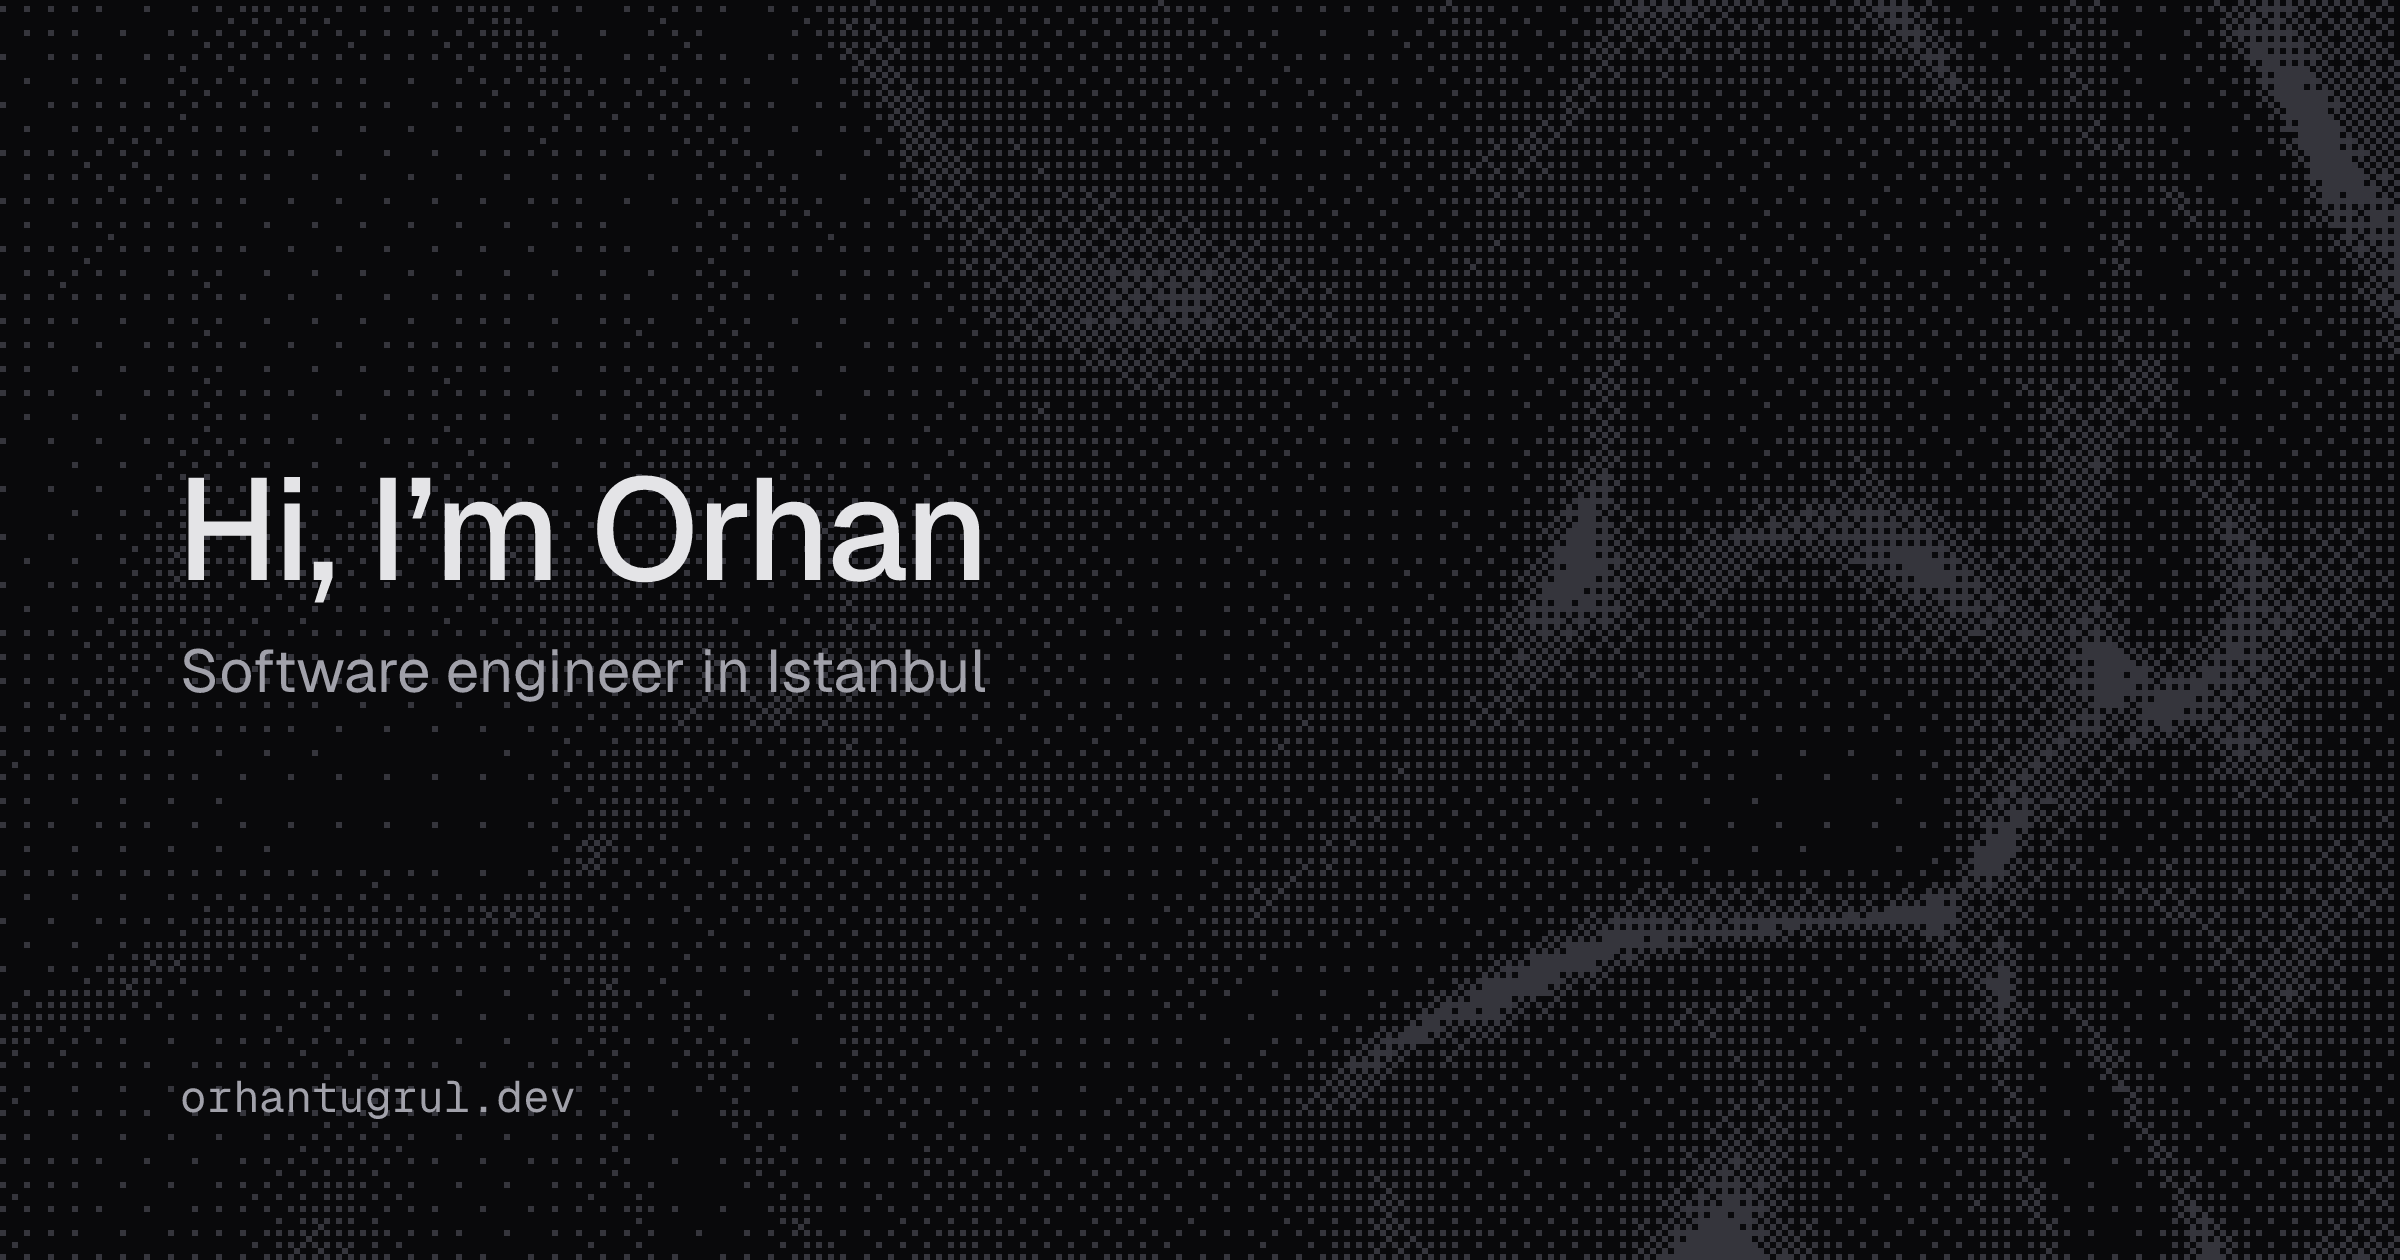
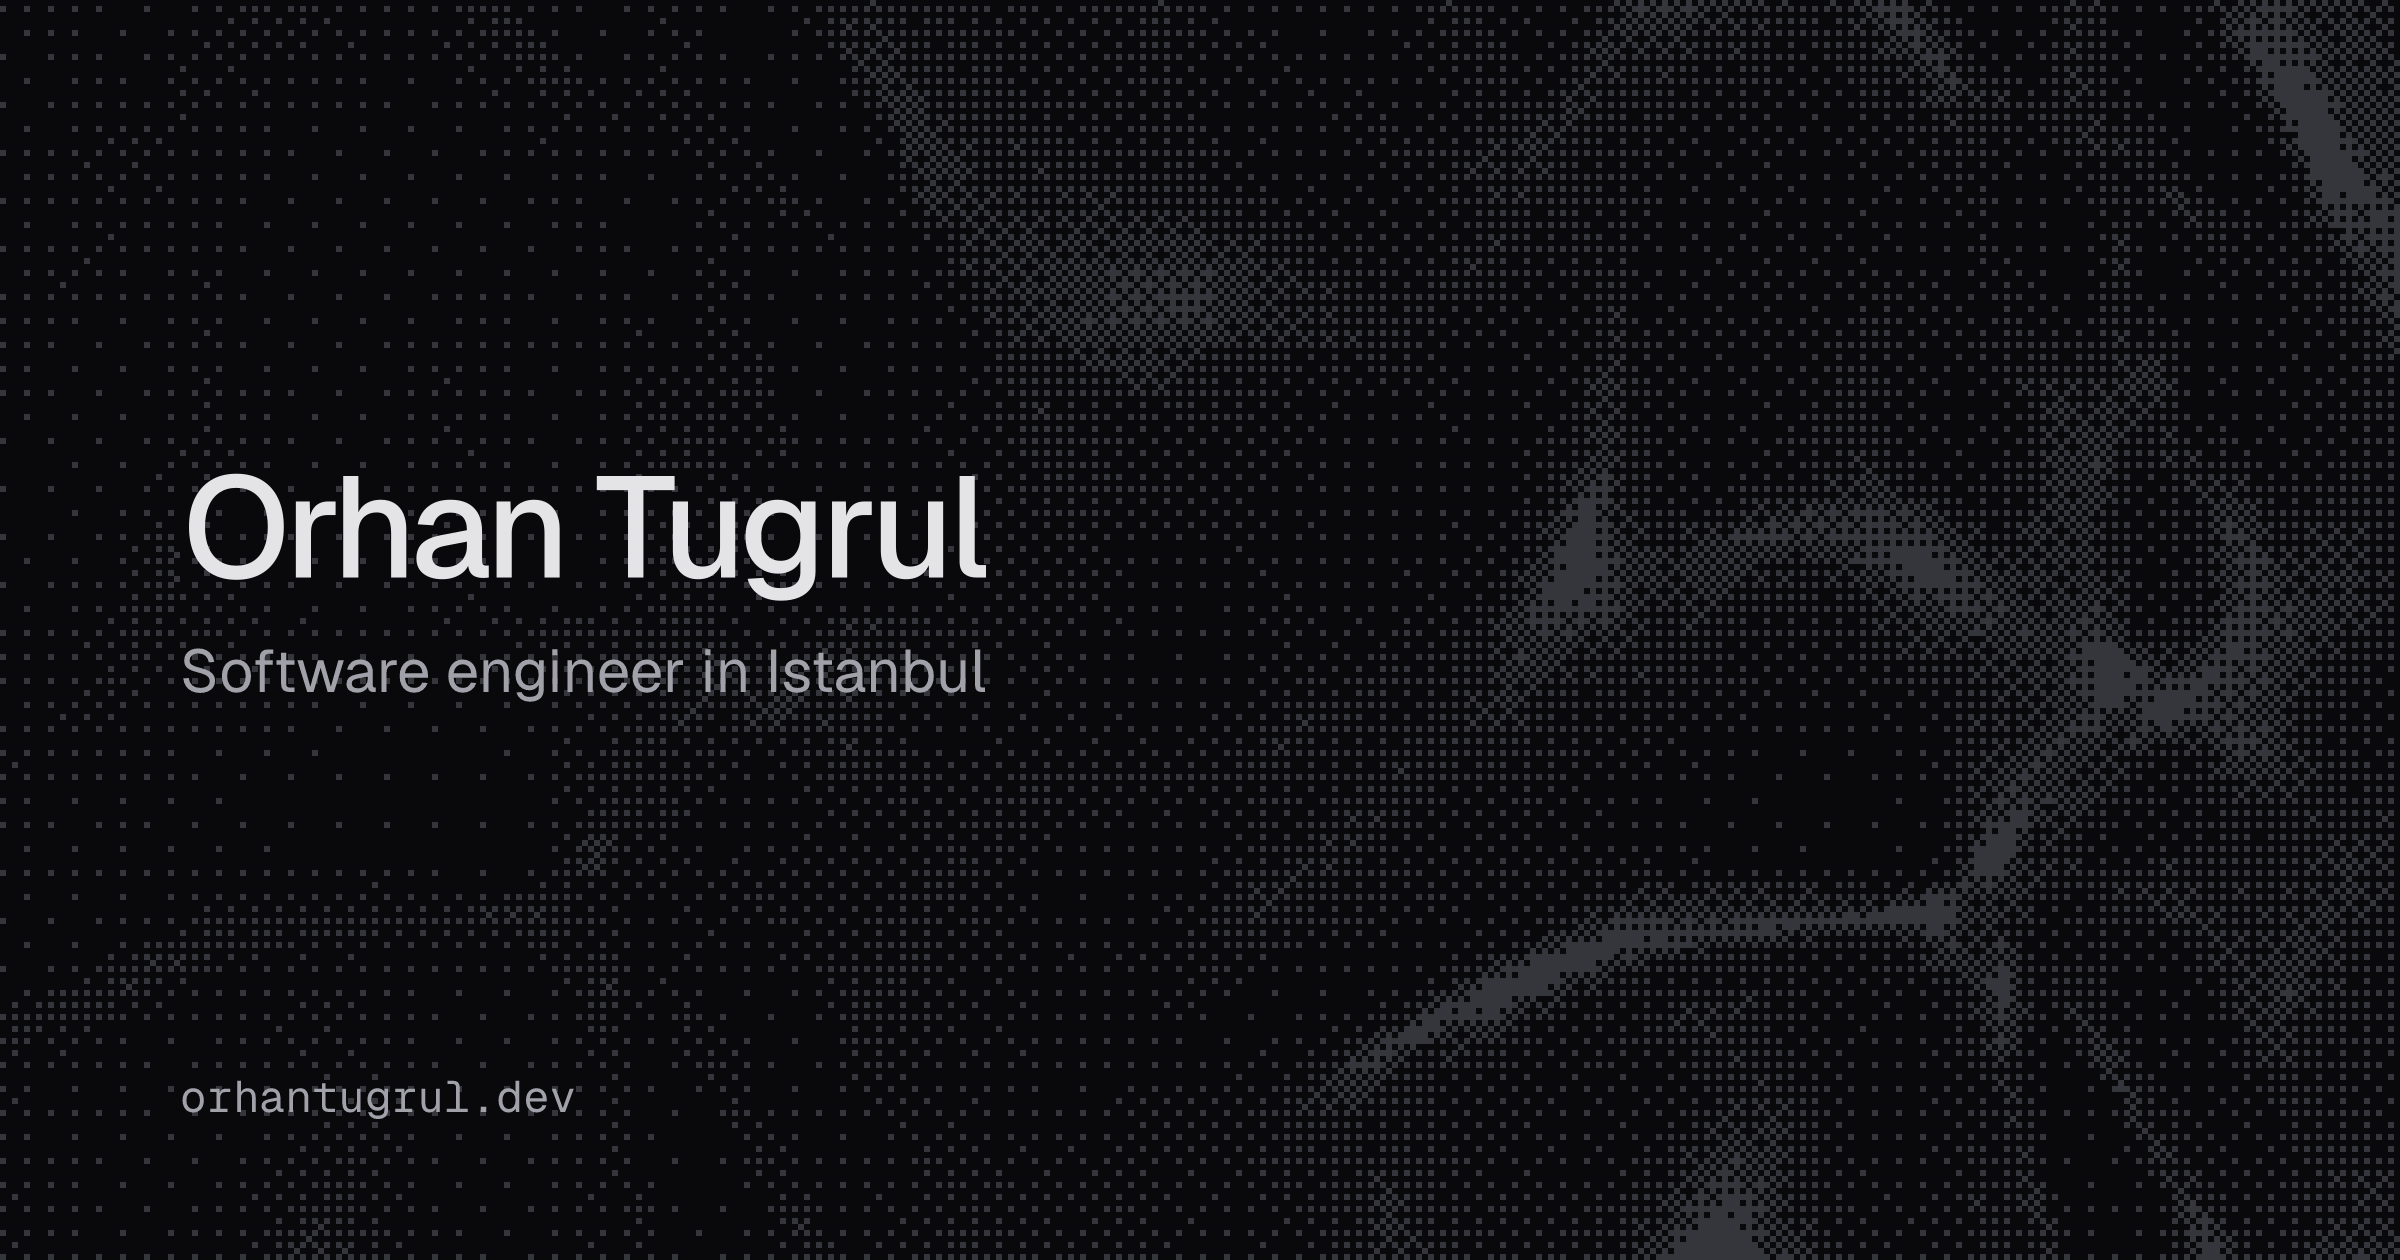
feat: sharper titles and metadata, page transitions, and a refreshed link preview
- Rename the hero to header and introduce the site as Orhan Tugrul
- Titles read "Page / Orhan Tugrul"; og:site_name is just the name
- New home description: the courier app and payments behind Paket Mutfak
- Add a canonical link and Person structured data (JSON-LD)
- Cross-fade between pages with the View Transitions API, skipped under
  prefers-reduced-motion
- og.png keeps its caustics still, with the heading now "Orhan Tugrul"
- llms.txt and the og:image alt follow the new wording

Changed region(s): [[0.0625, 0.3714, 0.4062, 0.4952]]

diff --git a/src/routes/+page.svelte b/src/routes/+page.svelte
@@ -1,13 +1,36 @@
 <script lang="ts">
   import Connect from "$lib/components/connect.svelte";
   import Experience from "$lib/components/experience.svelte";
-  import Hero from "$lib/components/hero.svelte";
+  import Header from "$lib/components/header.svelte";
   import RecentWork from "$lib/components/recent-work.svelte";
   import Writing from "$lib/components/writing.svelte";
 
-  const title = "Orhan Tugrul Sahin — Software Engineer";
+  const title = "Orhan Tugrul";
   const description =
-    "Software engineer in Istanbul building thoughtful products and dependable systems.";
+    "Software engineer in Istanbul, building the courier app and payments behind Paket Mutfak. Before that, treasury and leasing systems for banks.";
+
+  const person = {
+    "@context": "https://schema.org",
+    "@type": "Person",
+    name: "Orhan Tugrul",
+    alternateName: "Orhan Tugrul Sahin",
+    url: "https://orhantugrul.dev",
+    email: "mailto:hello@orhantugrul.dev",
+    jobTitle: "Software Engineer",
+    worksFor: {
+      "@type": "Organization",
+      name: "Paket Mutfak",
+      url: "https://paketmutfak.com.tr",
+    },
+    homeLocation: { "@type": "Place", name: "Istanbul, Türkiye" },
+    sameAs: [
+      "https://github.com/orhantugrul",
+      "https://x.com/orhantuurul",
+      "https://www.linkedin.com/in/orhantugrul",
+    ],
+  };
+  // The closing tag is split so it doesn't end this block.
+  const jsonLd = `<script type="application/ld+json">${JSON.stringify(person)}</${"script"}>`;
 </script>
 
 <svelte:head>
@@ -22,12 +45,15 @@
   <meta property="og:image:height" content="1260" />
   <meta
     property="og:image:alt"
-    content="Hi, I’m Orhan. Software engineer in Istanbul, over dithered light."
+    content="Orhan Tugrul, software engineer in Istanbul, over dithered light."
   />
   <meta name="twitter:card" content="summary_large_image" />
+  <!-- A fixed object, so there is nothing a visitor could inject. -->
+  <!-- eslint-disable-next-line svelte/no-at-html-tags -->
+  {@html jsonLd}
 </svelte:head>
 
-<Hero />
+<Header />
 <RecentWork />
 <Writing />
 <Experience />

diff --git a/src/routes/+layout.svelte b/src/routes/+layout.svelte
@@ -4,12 +4,25 @@
   import geistMono from "@fontsource-variable/geist-mono/files/geist-mono-latin-wght-normal.woff2?url";
   import { QueryClient, QueryClientProvider } from "@tanstack/svelte-query";
   import { browser } from "$app/environment";
+  import { onNavigate } from "$app/navigation";
+  import { page } from "$app/state";
   import Footer from "$lib/components/footer.svelte";
 
   const { children } = $props();
 
   const queryClient = new QueryClient({
     defaultOptions: { queries: { enabled: browser } },
+  });
+
+  onNavigate((navigation) => {
+    if (!document.startViewTransition) return;
+
+    return new Promise((resolve) => {
+      document.startViewTransition(async () => {
+        resolve();
+        await navigation.complete;
+      });
+    });
   });
 </script>
 
@@ -28,11 +41,12 @@
   <meta name="author" content="Orhan Tugrul Sahin" />
   <meta name="robots" content="index, follow, max-image-preview:large" />
   <meta name="referrer" content="strict-origin-when-cross-origin" />
-  <meta
-    property="og:site_name"
-    content="Orhan Tugrul Sahin — Software Engineer"
-  />
+  <meta property="og:site_name" content="Orhan Tugrul" />
   <meta property="og:locale" content="en_US" />
+  <link
+    rel="canonical"
+    href="https://orhantugrul.dev{page.url.pathname.replace(/\/$/, '')}"
+  />
 </svelte:head>
 
 <QueryClientProvider client={queryClient}>

diff --git a/src/routes/llms.txt/+server.ts b/src/routes/llms.txt/+server.ts
@@ -12,9 +12,9 @@ export function GET() {
     )
     .join("\n");
 
-  const body = `# Orhan Tugrul Sahin
+  const body = `# Orhan Tugrul
 
-> Software engineer in Istanbul building thoughtful products and dependable systems.
+> Software engineer in Istanbul, building the courier app and payments behind Paket Mutfak. Before that, treasury and leasing systems for banks.
 
 Orhan builds software at Paket Mutfak, from the app a courier holds at the door to the service behind it that keeps dispatch, orders and payments in step. Before that, treasury and leasing systems for banks.
 

diff --git a/src/lib/components/header.svelte b/src/lib/components/header.svelte
@@ -12,7 +12,7 @@
       <Navigation />
     </div>
     <div class="flex flex-1 flex-col justify-center pb-12 md:pb-16">
-      <h1 class="text-2xl font-medium sm:text-3xl">Hi, I’m Orhan</h1>
+      <h1 class="text-2xl font-medium sm:text-3xl">Orhan Tugrul</h1>
       <p class="mt-1.5 text-sm text-muted-foreground">
         Software engineer in Istanbul
       </p>

diff --git a/src/routes/writing/+page.svelte b/src/routes/writing/+page.svelte
@@ -5,7 +5,7 @@
   import Navigation from "$lib/components/navigation.svelte";
   import { drafts, posts, published } from "$lib/writing";
 
-  const title = "Writing — Orhan Tugrul Sahin";
+  const title = "Writing / Orhan Tugrul";
   const description =
     posts.length > 0
       ? "Notes to my future self, published by accident."

diff --git a/src/routes/writing/[slug]/+page.svelte b/src/routes/writing/[slug]/+page.svelte
@@ -8,7 +8,7 @@
   const { data }: PageProps = $props();
 
   const metadata = $derived(data.metadata);
-  const title = $derived(`${metadata.title} — Orhan Tugrul Sahin`);
+  const title = $derived(`${metadata.title} / Orhan Tugrul`);
   const url = $derived(`https://orhantugrul.dev/writing/${data.slug}`);
 </script>
 

diff --git a/src/routes/+error.svelte b/src/routes/+error.svelte
@@ -11,7 +11,7 @@
 </script>
 
 <svelte:head>
-  <title>{page.status} — {is404 ? "Not found" : "Something went wrong"}</title>
+  <title>{page.status} / {is404 ? "Not found" : "Something went wrong"}</title>
   <meta name="robots" content="noindex" />
 </svelte:head>
 

diff --git a/src/routes/app.css b/src/routes/app.css
@@ -219,3 +219,11 @@
     border-top: 1px solid var(--border);
   }
 }
+
+@media (prefers-reduced-motion: reduce) {
+  ::view-transition-group(*),
+  ::view-transition-old(*),
+  ::view-transition-new(*) {
+    animation: none;
+  }
+}
